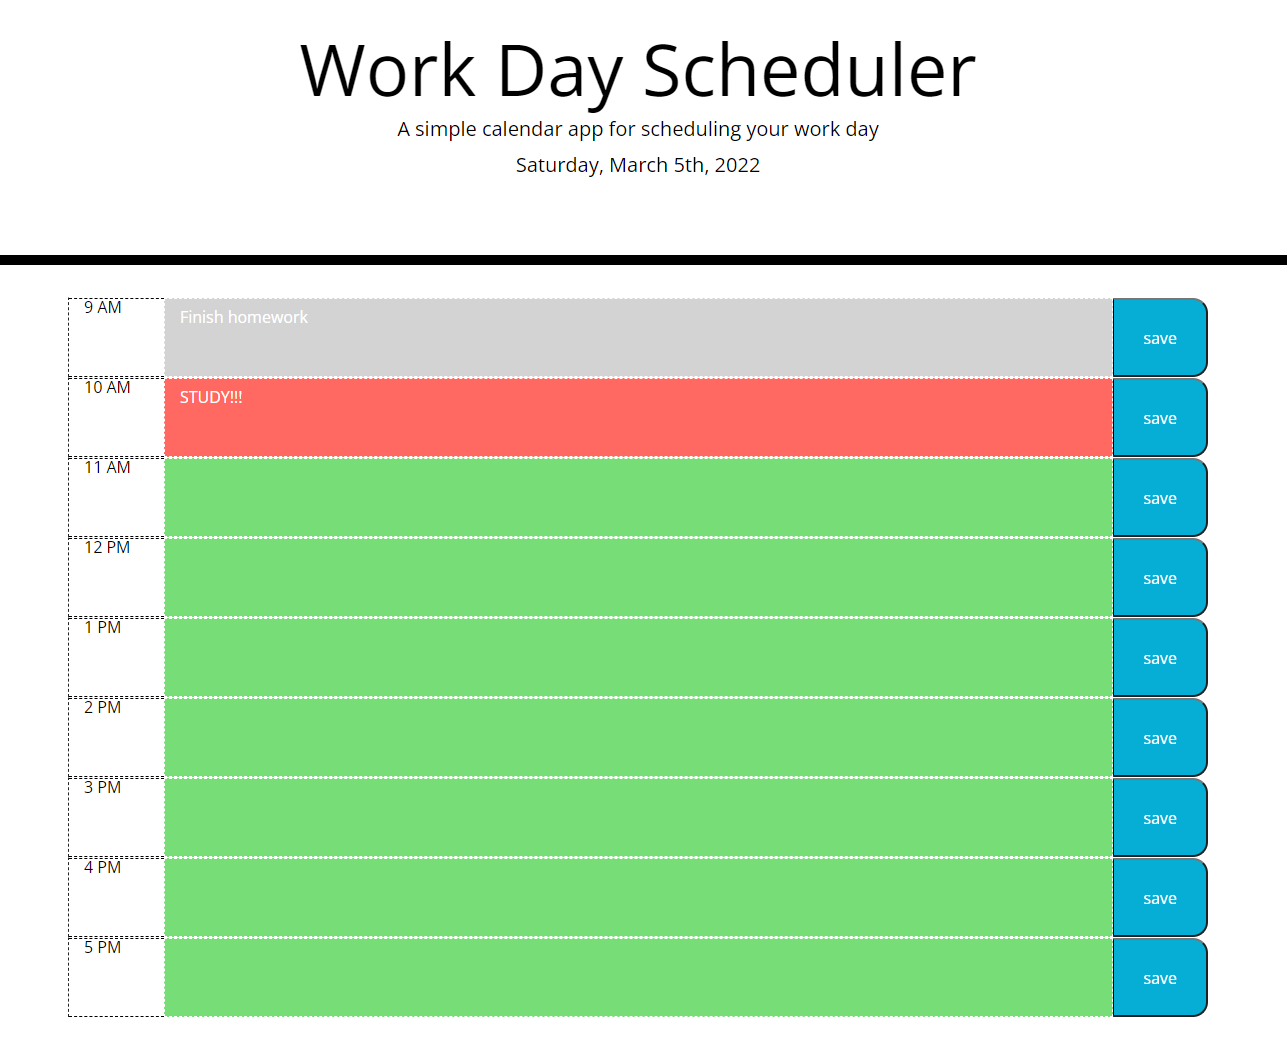
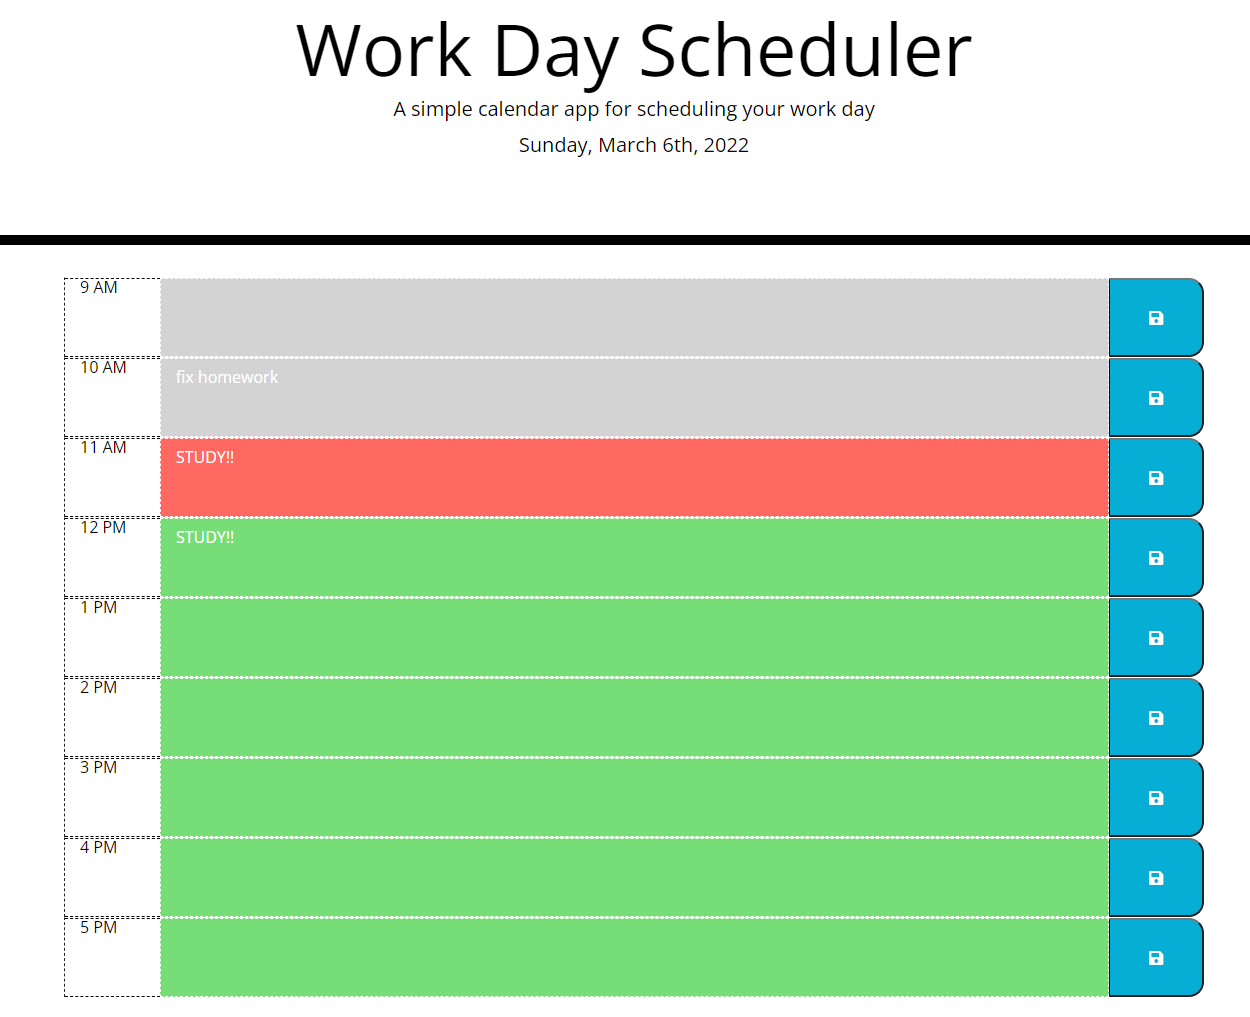
updated screenshot for readme

diff --git a/index.html b/index.html
@@ -33,47 +33,47 @@
       <div class="row">
         <div class="col-1 hour">9 AM</div>
         <textarea class="col-10 description"></textarea>
-        <button class="col-1 saveBtn">save</button>
+        <button class="col-1 saveBtn"><i class="fas fa-save"></i></button>
       </div>
       <div class="row">
         <div class="col-1 hour">10 AM</div>
         <textarea class="col-10 description"></textarea>
-        <button class="col-1 saveBtn">save</button>
+        <button class="col-1 saveBtn"><i class="fas fa-save"></i></button>
       </div>
       <div class="row">
         <div class="col-1 hour">11 AM</div>
         <textarea class="col-10 description"></textarea>
-        <button class="col-1 saveBtn">save</button>
+        <button class="col-1 saveBtn"><i class="fas fa-save"></i></button>
       </div>
       <div class="row">
         <div class="col-1 hour">12 PM</div>
         <textarea class="col-10 description"></textarea>
-        <button class="col-1 saveBtn">save</button>
+        <button class="col-1 saveBtn"><i class="fas fa-save"></i></button>
       </div>
       <div class="row">
         <div class="col-1 hour">1 PM</div>
         <textarea class="col-10 description"></textarea>
-        <button class="col-1 saveBtn">save</button>
+        <button class="col-1 saveBtn"><i class="fas fa-save"></i></button>
       </div>
       <div class="row">
         <div class="col-1 hour">2 PM</div>
         <textarea class="col-10 description"></textarea>
-        <button class="col-1 saveBtn">save</button>
+        <button class="col-1 saveBtn"><i class="fas fa-save"></i></button>
       </div>
       <div class="row">
         <div class="col-1 hour">3 PM</div>
         <textarea class="col-10 description"></textarea>
-        <button class="col-1 saveBtn">save</button>
+        <button class="col-1 saveBtn"><i class="fas fa-save"></i></button>
       </div>
       <div class="row">
         <div class="col-1 hour">4 PM</div>
         <textarea class="col-10 description"></textarea>
-        <button class="col-1 saveBtn">save</button>
+        <button class="col-1 saveBtn"><i class="fas fa-save"></i></button>
       </div>
       <div class="row">
         <div class="col-1 hour">5 PM</div>
         <textarea class="col-10 description"></textarea>
-        <button class="col-1 saveBtn">save</button>
+        <button class="col-1 saveBtn"><i class="fas fa-save"></i></button>
       </div>
     </div>
 
